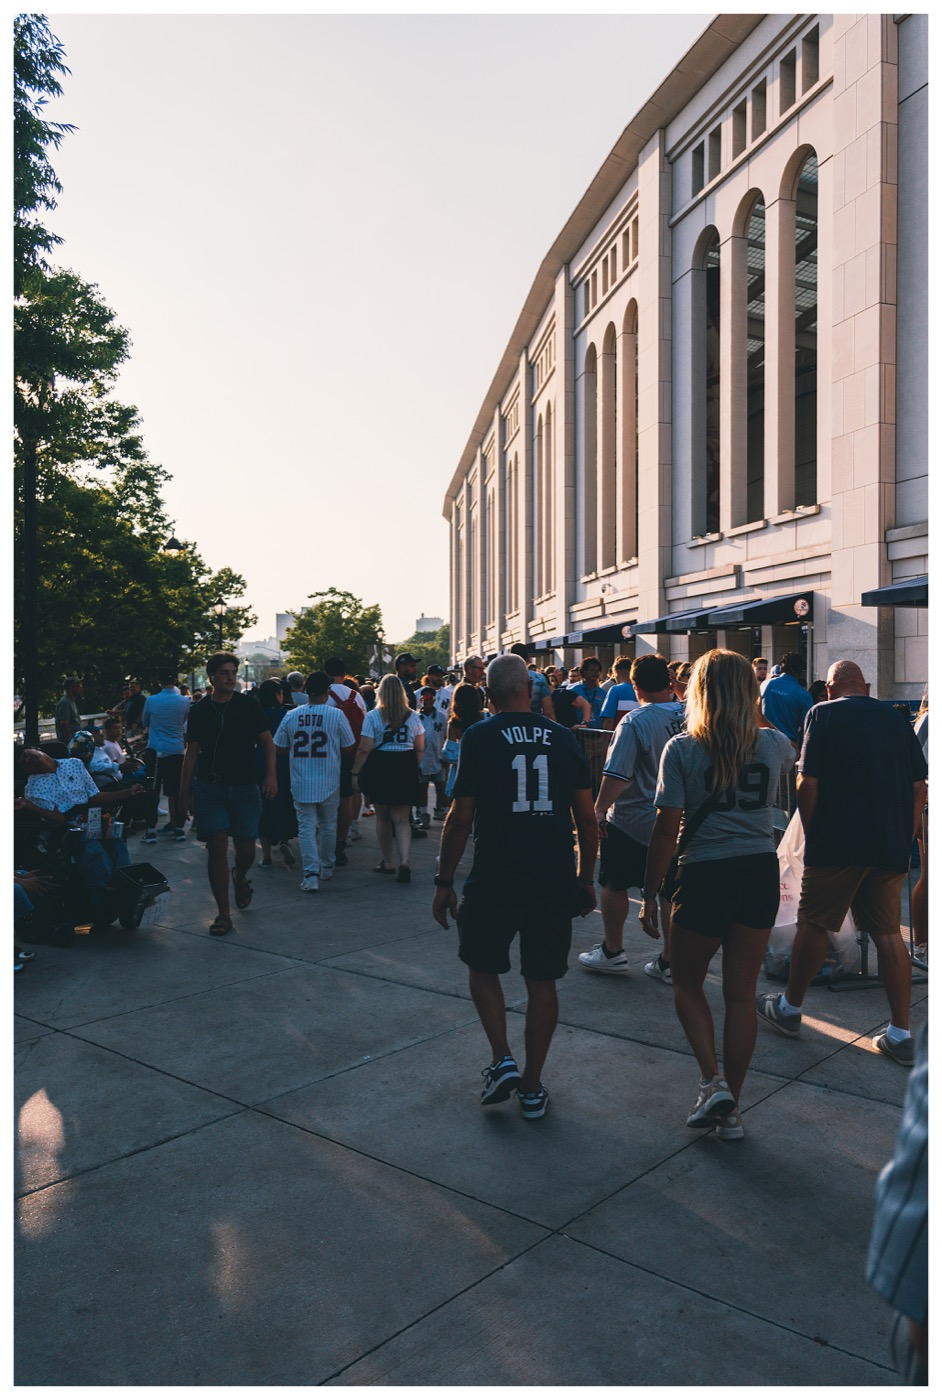
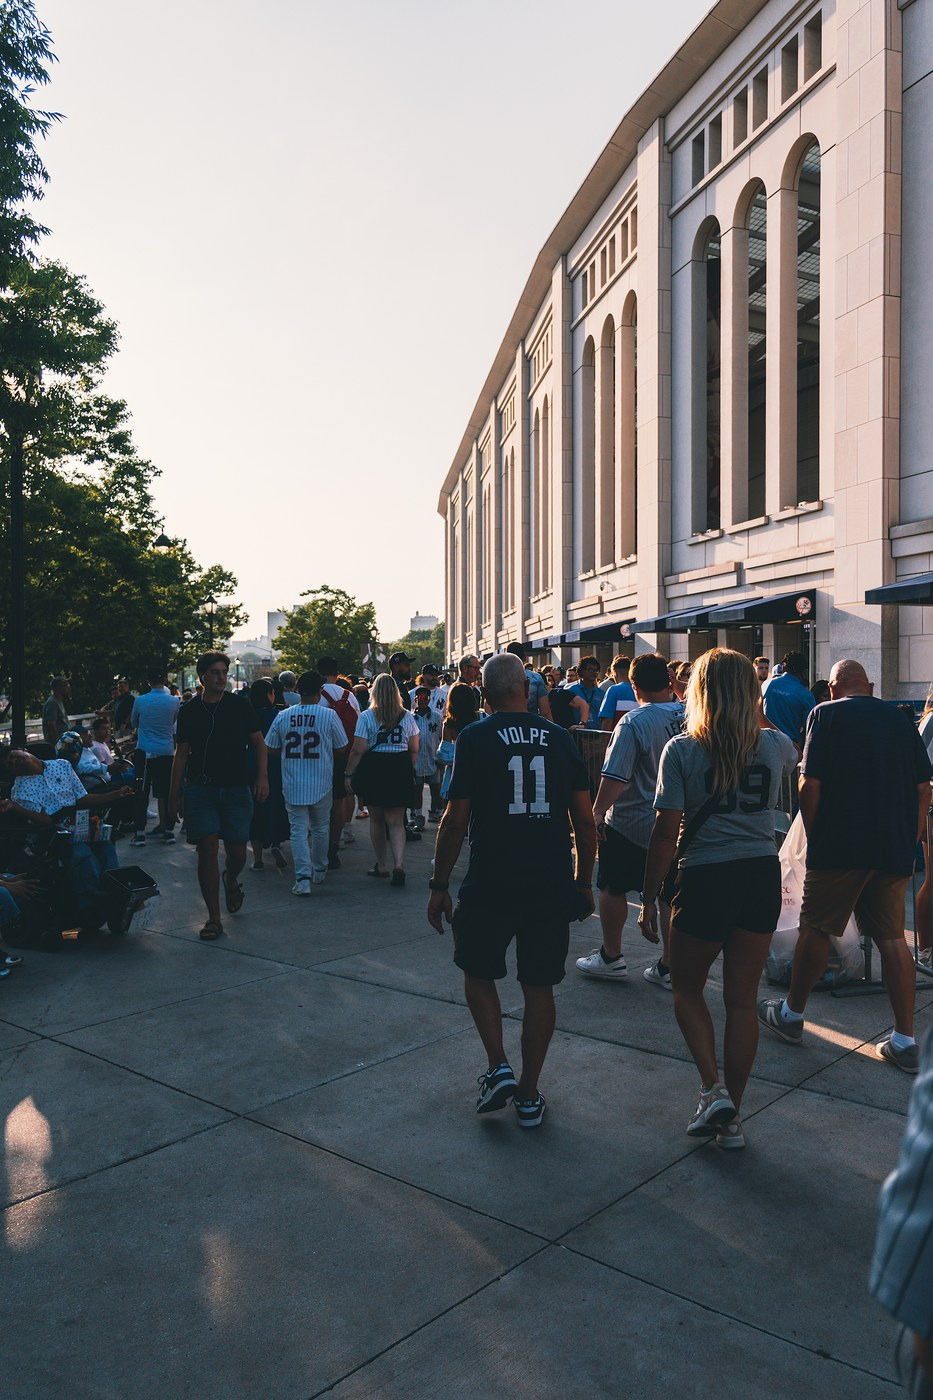
Strip white borders from sports photos, restore gallery gaps
Auto-trimmed 120px white border from all 5 KHS sports shots using Pillow.
Restored 10px column-gap and margin-bottom to gallery.

diff --git a/index.html b/index.html
@@ -319,14 +319,14 @@
     /* ─── GALLERY (masonry) ─── */
     .gallery {
       columns: 3;
-      column-gap: 0;
+      column-gap: 10px;
     }
     @media (max-width: 960px)  { .gallery { columns: 2; } }
     @media (max-width: 560px)  { .gallery { columns: 1; } }
 
     .g-item {
       break-inside: avoid;
-      margin-bottom: 0;
+      margin-bottom: 10px;
       position: relative;
       overflow: hidden;
       cursor: none;
